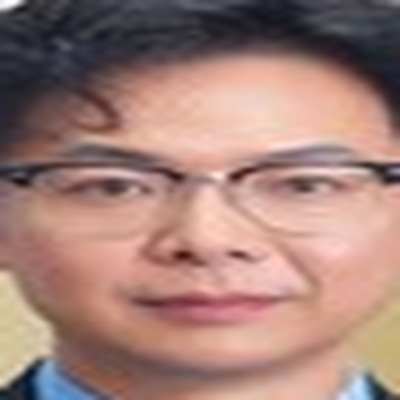
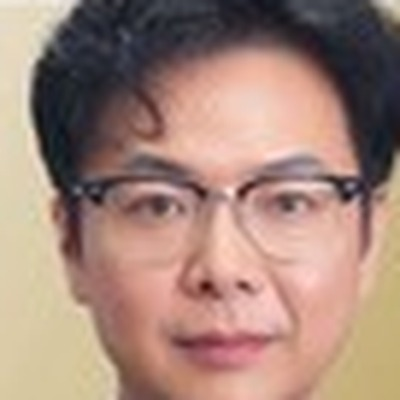
修正領導團隊頭像因非等比裁切造成的臉部拉伸變形，改用正方形裁切框並加金色描邊，貼近phoneann.com合作夥伴頭像風格

diff --git a/docs/assets/style.css b/docs/assets/style.css
@@ -335,7 +335,7 @@ footer .gold-line{
 }
 .leader-card .photo{
   width:76px;height:76px;border-radius:50%;overflow:hidden;margin:0 auto 12px;
-  border:3px solid var(--paper);box-shadow:0 3px 8px rgba(0,0,0,.12);
+  border:2px solid var(--gingui-gold);box-shadow:0 3px 8px rgba(0,0,0,.12);
 }
 .leader-card .photo img{width:100%;height:100%;object-fit:cover;display:block}
 .leader-card .role{font-size:.78rem;color:var(--gray-70);margin-bottom:4px}
